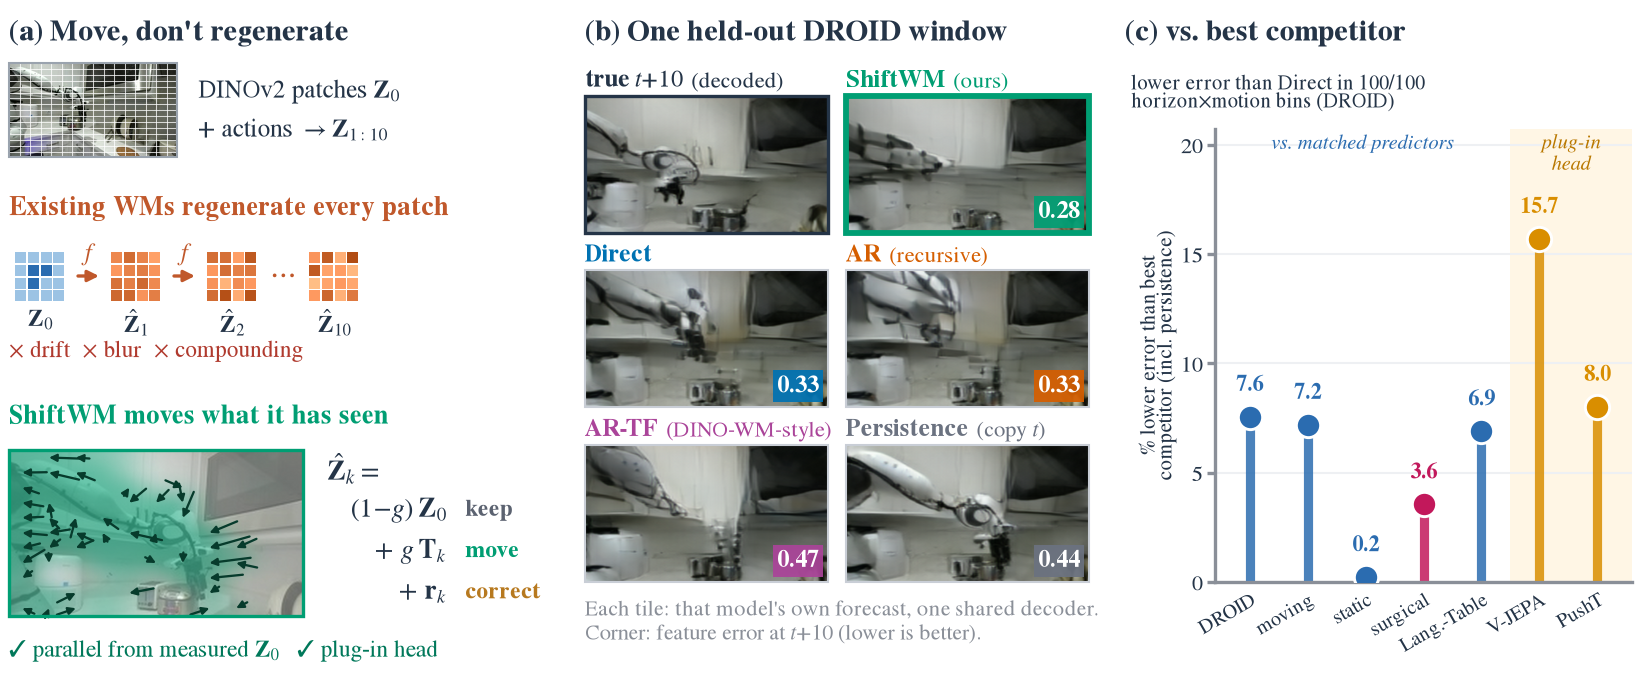
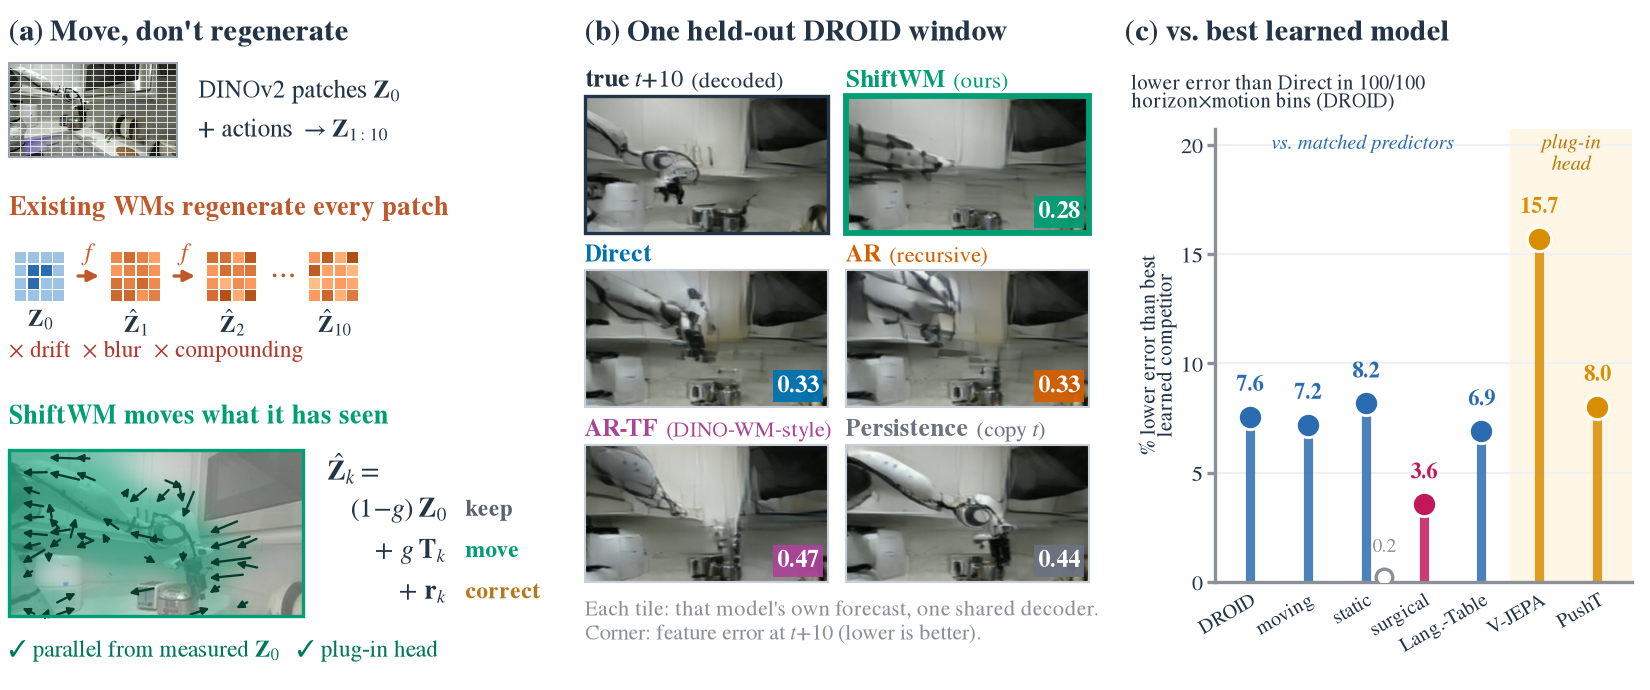
Rewrite prep: no interim seed note in Table 1 (seed counts from macros), static-vs-Direct macro (8.2%), contrastive ablation and planning rows in generators, teaser (c) vs best learned model with persistence marked

diff --git a/paper/submission_folder/figures/src/make_figures.py b/paper/submission_folder/figures/src/make_figures.py
@@ -494,18 +494,21 @@ def _teaser_results(fig, ax, x0, x1, top, W, H):
         v = [np.mean(x[key]) for k_, x in R.items() if k_.split("/")[0] == arm]
         return float(np.mean(v)) if v else None
     BLUE, PINK, AMBER = "#2B6CB0", "#C2185B", "#D98E00"
-    # Every bar: % lower error of ShiftWM than the BEST competitor; persistence (ratio 1) always competes.
-    pts = []                                                    # (label, x = best competitor, y = ours, colour, dx, dy)
+    # Every bar: % lower error of ShiftWM than the best LEARNED competitor (matched predictors; for the plug-ins, the
+    # same published model without the head). Persistence is marked separately (hollow marker) where it is closer.
+    pts, pers = [], {}                                          # (label, x = best competitor, y = ours, colour, dx, dy)
     def own(ds, lab, col, dxy):
         sk = relative_to_persistence(ds)                        # unrounded seed means (match the text macros)
         if sk and all(a_ in sk for a_ in ("ar", "direct", "shiftwm")):
-            best = max(0.0, *(sk[a_] for a_ in ("ar_tf", "ar", "direct") if a_ in sk))
+            best = max(sk[a_] for a_ in ("ar_tf", "ar", "direct") if a_ in sk)
             pts.append((lab, 1 - best / 100, 1 - sk["shiftwm"] / 100, col, *dxy))
     own("droid", "DROID", BLUE, (1.18, 0.9))
     for key, lab, dxy in (("moving", "moving parts", (0.66, 0.84)), ("static", "static scene", (0.62, 1.13))):
         if all(g(a_, key) is not None for a_ in ("persistence", "ar", "direct", "shiftwm")):
             p_ = g("persistence", key)
-            pts.append((lab, min(g("direct", key), g("ar", key), p_) / p_, g("shiftwm", key) / p_, BLUE, *dxy))
+            pts.append((lab, min(g("direct", key), g("ar", key)) / p_, g("shiftwm", key) / p_, BLUE, *dxy))
+            if p_ < min(g("direct", key), g("ar", key)):        # copying beats every learned competitor here
+                pers[len(pts) - 1] = 100 * (1 - g("shiftwm", key) / p_)
     own("openh_hamlyn", "surgical", PINK, (0.62, 1.12))
     for ds, lab in (("bridge", "Bridge"), ("fractal", "RT-1"), ("language_table", "Lang.-Table")):
         own(ds, lab, BLUE, (1.15, 0.9))
@@ -539,12 +542,15 @@ def _teaser_results(fig, ax, x0, x1, top, W, H):
         sax.scatter([i], [r], s=34, color=c, edgecolors="white", linewidths=0.7, zorder=3)
         sax.text(i, r + (0.045 if r > 0 else -0.045) * (hi_ - lo_), f"{r:.1f}".replace("-", "\u2212"), fontsize=5.3,
                  ha="center", va="bottom" if r > 0 else "top", color=c, fontweight="bold")
+    for i, r in pers.items():                                   # ShiftWM vs. persistence (copy), where copy is closer
+        sax.scatter([i + 0.32], [r], s=16, facecolors="white", edgecolors="#8A8F98", linewidths=0.8, zorder=3)
+        sax.text(i + 0.32, r + 0.045 * (hi_ - lo_), f"{r:.1f}", fontsize=4.6, ha="center", va="bottom", color="#8A8F98")
     sax.set_xticks(xs); sax.set_xticklabels([short.get(p_[0], p_[0]) for p_ in pts], fontsize=4.8, rotation=30, ha="right", rotation_mode="anchor")
     sax.tick_params(axis="y", labelsize=5.3, length=2, pad=1); sax.tick_params(axis="x", length=0, pad=2)
     sax.yaxis.set_major_locator(matplotlib.ticker.MultipleLocator(5))
     sax.yaxis.set_major_formatter(matplotlib.ticker.FuncFormatter(lambda v, _: f"{v:.0f}"))
     sax.grid(axis="x", visible=False); sax.grid(axis="y", color="#EEF0F3", lw=0.5)
-    sax.set_ylabel("% lower error than best\ncompetitor (incl. persistence)", fontsize=5.0, labelpad=1, linespacing=0.95)
+    sax.set_ylabel("% lower error than best\nlearned competitor", fontsize=5.0, labelpad=1, linespacing=0.95)
     fa = RES / "analysis/anatomy/summary.json"
     if fa.exists():
         m = np.asarray(json.loads(fa.read_text())["gain_map"]["direct"])
@@ -576,7 +582,7 @@ def fig_teaser(device="cpu"):
     ax = fig.add_axes([0, 0, 1, 1]); ax.set_xlim(0, W); ax.set_ylim(0, H); ax.set_aspect("equal"); ax.axis("off")
     cols = [(0.03, 1.83), (1.95, 3.63), (3.75, 5.47)]
     top = H - 0.21
-    titles = ("(a) Move, don't regenerate", "(b) One held-out DROID window", "(c) vs. best competitor")
+    titles = ("(a) Move, don't regenerate", "(b) One held-out DROID window", "(c) vs. best learned model")
     for (a, b), t in zip(cols, titles):
         ax.text(a, H - 0.06, t, fontsize=7.2, fontweight="bold", color=INK, va="top")
     try:

diff --git a/scripts/v2/make_tables.py b/scripts/v2/make_tables.py
@@ -280,8 +280,11 @@ def main():
         counts = {a: len(list((root_for(ds) / ds / "dinov2s" / a).glob("s*/eval_test.npz"))) for a in sorted(LEARNED)}
         if any(c < 3 for c in counts.values()):
             status.append(name + ": " + ", ".join(f"{a.replace('_', '-')} {c}/3" for a, c in counts.items()))
-    note = (r" \textcolor{mutedgray}{[Interim: seeds completed -- " + "; ".join(status) + ".]}") if status else ""
-    (GEN / "seed_status.tex").write_text("\\def\\seedstatus{" + note + "}\n")
+    # Seed counts are stated in the captions and in the statistical analysis (\droidSeeds, \hamlynSeeds, \ltSeeds);
+    # incomplete seeds are only reported on stdout, never printed in the paper.
+    if status:
+        print("seed status:", "; ".join(status))
+    (GEN / "seed_status.tex").write_text("\\def\\seedstatus{}\n")
     print("tables written;", len(provenance), "result groups used")
 
 
@@ -391,6 +394,7 @@ def numbers_macros(vj, dw):
         g = lambda arm, m: (np.mean([np.mean(v[m]) for k, v in r.items() if k.split("/")[0] == arm]) if any(k.split("/")[0] == arm for k in r) else None)
         put("droidMovingVsAR", red(g("shiftwm", "moving"), g("ar", "moving"))); put("droidMovingVsDirect", red(g("shiftwm", "moving"), g("direct", "moving")))
         put("droidStaticVsAR", red(g("shiftwm", "static"), g("ar", "static"))); put("droidStaticVsPers", red(g("shiftwm", "static"), g("persistence", "static")))
+        put("droidStaticVsDirect", red(g("shiftwm", "static"), g("direct", "static")))
         # Caption note for the region table: which seeds it uses, and whether it matches Table 1's checkpoints.
         runs = {}
         for k in r:
@@ -446,7 +450,8 @@ def planning_rows():
     """Success (%) per env, mean over planner seeds 42/43/44 (training seed 0), from results/v2/planning."""
     arms = [("random", "Random actions (floor)"),
             ("lewm", "LeWM (released) \\citep{maes2026lewm}"), ("v2_ar_tf_s0", "AR-TF (DINO-WM-style)"),
-            ("v2_ar_s0", "AR (rollout-trained)"), ("v2_direct_s0", "Direct"), ("v2_shiftwm_s0", r"\ours{}")]
+            ("v2_ar_s0", "AR (rollout-trained)"), ("v2_direct_s0", "Direct"), ("v2_shiftwm_s0", r"\ours{}"),
+            ("v2_shiftwm_ctr_s0", r"\ours{} + $\mathcal{L}_{\text{act}}$")]
     rows = []
     for key, label in arms:
         if key.startswith("v2_") and not list((RES / "planning/pusht" / key).glob("4[234].json")):
@@ -582,6 +587,7 @@ ABLATIONS = [  # (group, label, run dir under results/, config change)
     ("Correction", r"$\tanh$-bounded", "v2s/droid/dinov2s/ablations/tanh/s0"),
     ("Correction", r"none (pure transport)", "v2s/droid/dinov2s/ablations/nocorr/s0"),
     ("Actions", r"action-free", "v2s/droid/dinov2s/ablations/actfree/s0"),
+    ("Actions", r"+ action-contrastive loss ($\lambda{=}0.5$)", "v2s/droid/dinov2s/ablations/ctr/s0"),
     ("Encoder", r"DINOv2-B/14", "v2s/droid/dinov2s/ablations/dinov2b_shiftwm/s0"),
 ]
 

diff --git a/paper/submission_folder/tables/main_forecasting.tex b/paper/submission_folder/tables/main_forecasting.tex
@@ -1,8 +1,7 @@
-% Regenerated by scripts/v2/make_tables.py from results/v2 once runs complete.
-\input{submission_folder/tables/generated/seed_status.tex}
+% Rows regenerated by scripts/v2/make_tables.py from results/v2.
 \begin{table}[t]
 \centering
-\caption{\textbf{Held-out forecasting error} (feature MSE $\downarrow$, mean over training seeds; DROID: 3). \textbf{Best}, \underline{second}; $\dagger$: paired 95\% CI vs.\ best baseline excludes 0; --: not run.\seedstatus}
+\caption{\textbf{Held-out forecasting error} (feature MSE $\downarrow$; training seeds: DROID \droidSeeds{}, Open-H \hamlynSeeds{}, Language-Table \ltSeeds{}). \textbf{Best}, \underline{second}; $\dagger$: paired 95\% CI vs.\ best baseline excludes 0; --: not run.}
 \label{tab:main}
 \scriptsize\setlength{\tabcolsep}{7pt}
 \begin{tabular}{@{}lcc@{\hspace{8pt}}ccc@{}}
